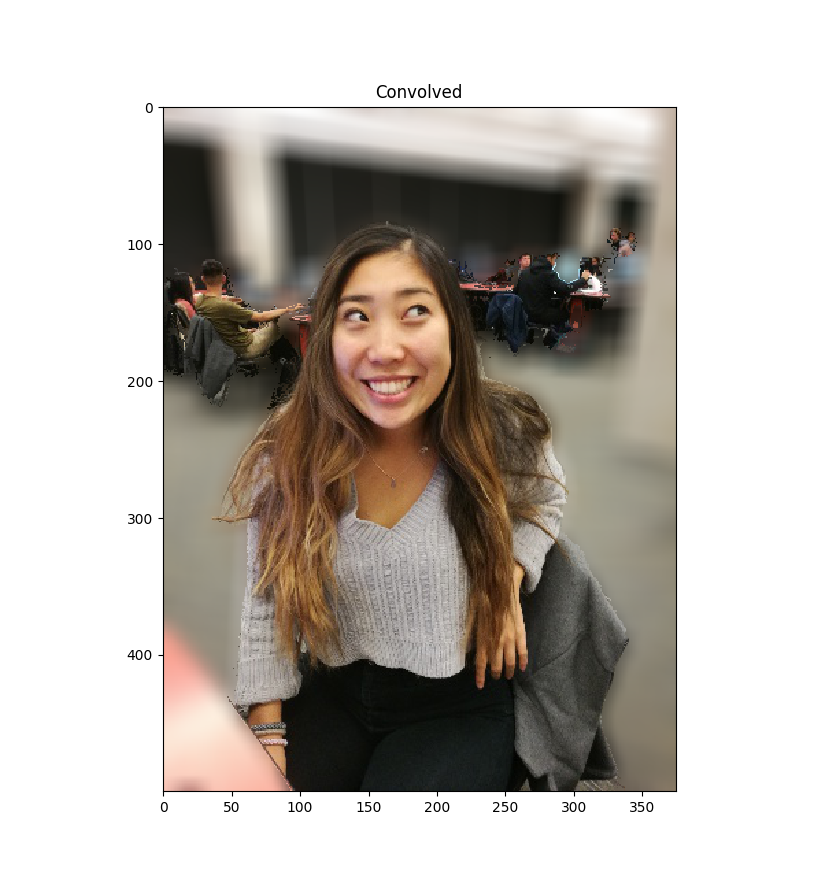
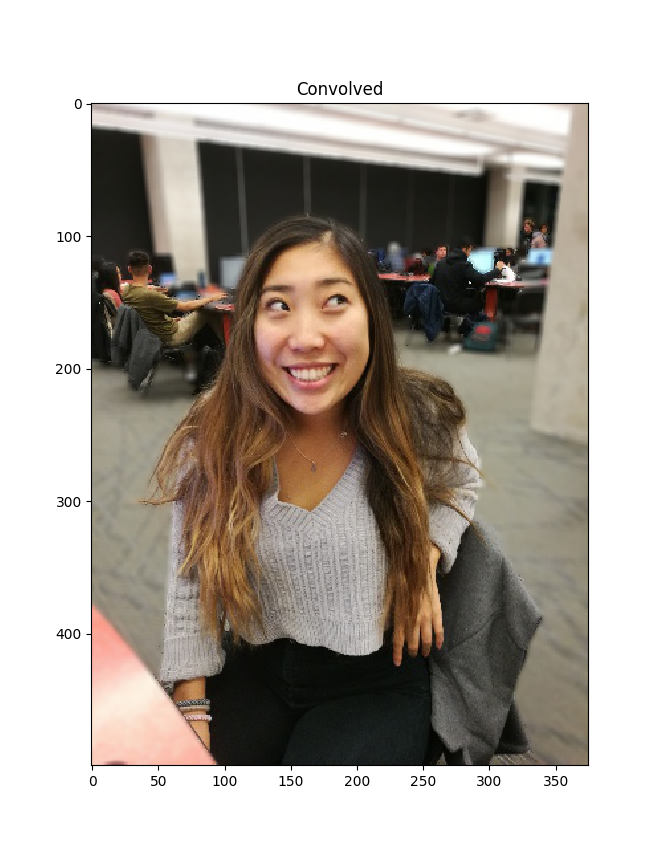
update mean & motion blur outputs

diff --git a/crfasrnn_keras/run_demo.py b/crfasrnn_keras/run_demo.py
@@ -94,6 +94,10 @@ def main():
         print label_mask
         image_array_rgb = np.array(Image.open(input_file))
         smallBlur = np.ones((21,21), dtype="float")*(1.0/(21*21))
+        size = 15
+        kernel_motion_blur = np.zeros((size, size))
+        kernel_motion_blur[int((size-1)/2), :] = np.ones(size)
+        kernel_motion_blur = kernel_motion_blur / size
         r_original,g_original,b_original = np.split(image_array_rgb, 3, axis=2)
         a_original = np.ones_like(r_original)*255
 
@@ -118,7 +122,7 @@ def main():
         blur_kernel_not_normalized = np.exp((-(x**2 + y**2))/(2 * blur_sigma**2))
         normalization_constant = np.float32(1) / np.sum(blur_kernel_not_normalized)
         #blur_kernel = (normalization_constant * blur_kernel_not_normalized).astype(np.float32)
-        blur_kernel=smallBlur
+        blur_kernel=kernel_motion_blur
 
         pyplot.imshow(blur_kernel, cmap="gray", interpolation="nearest")
         pyplot.title("blur_kernel")
